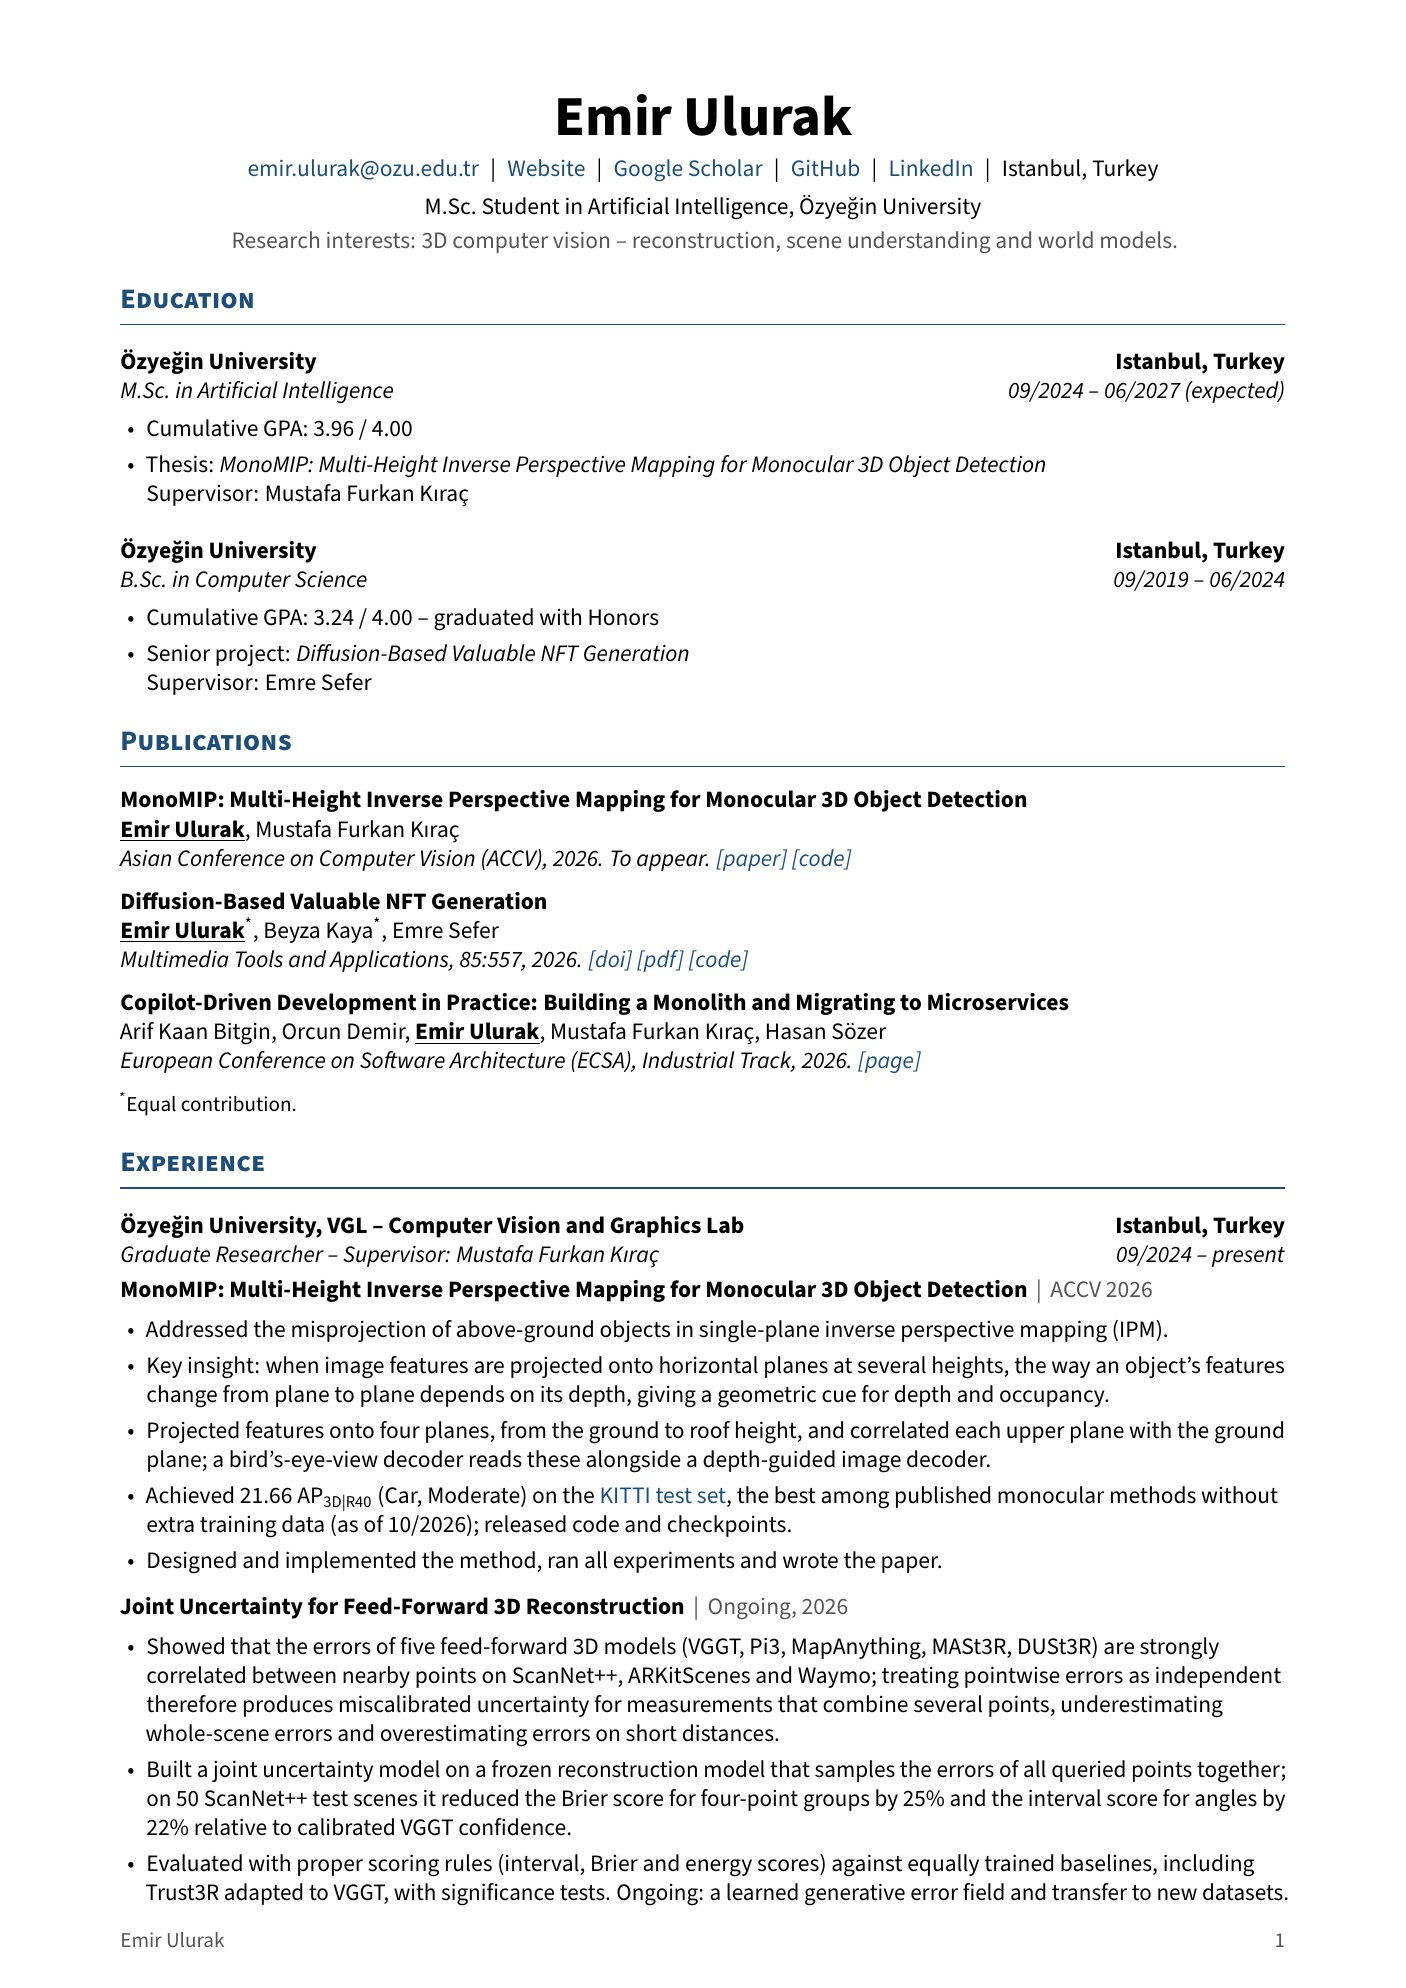
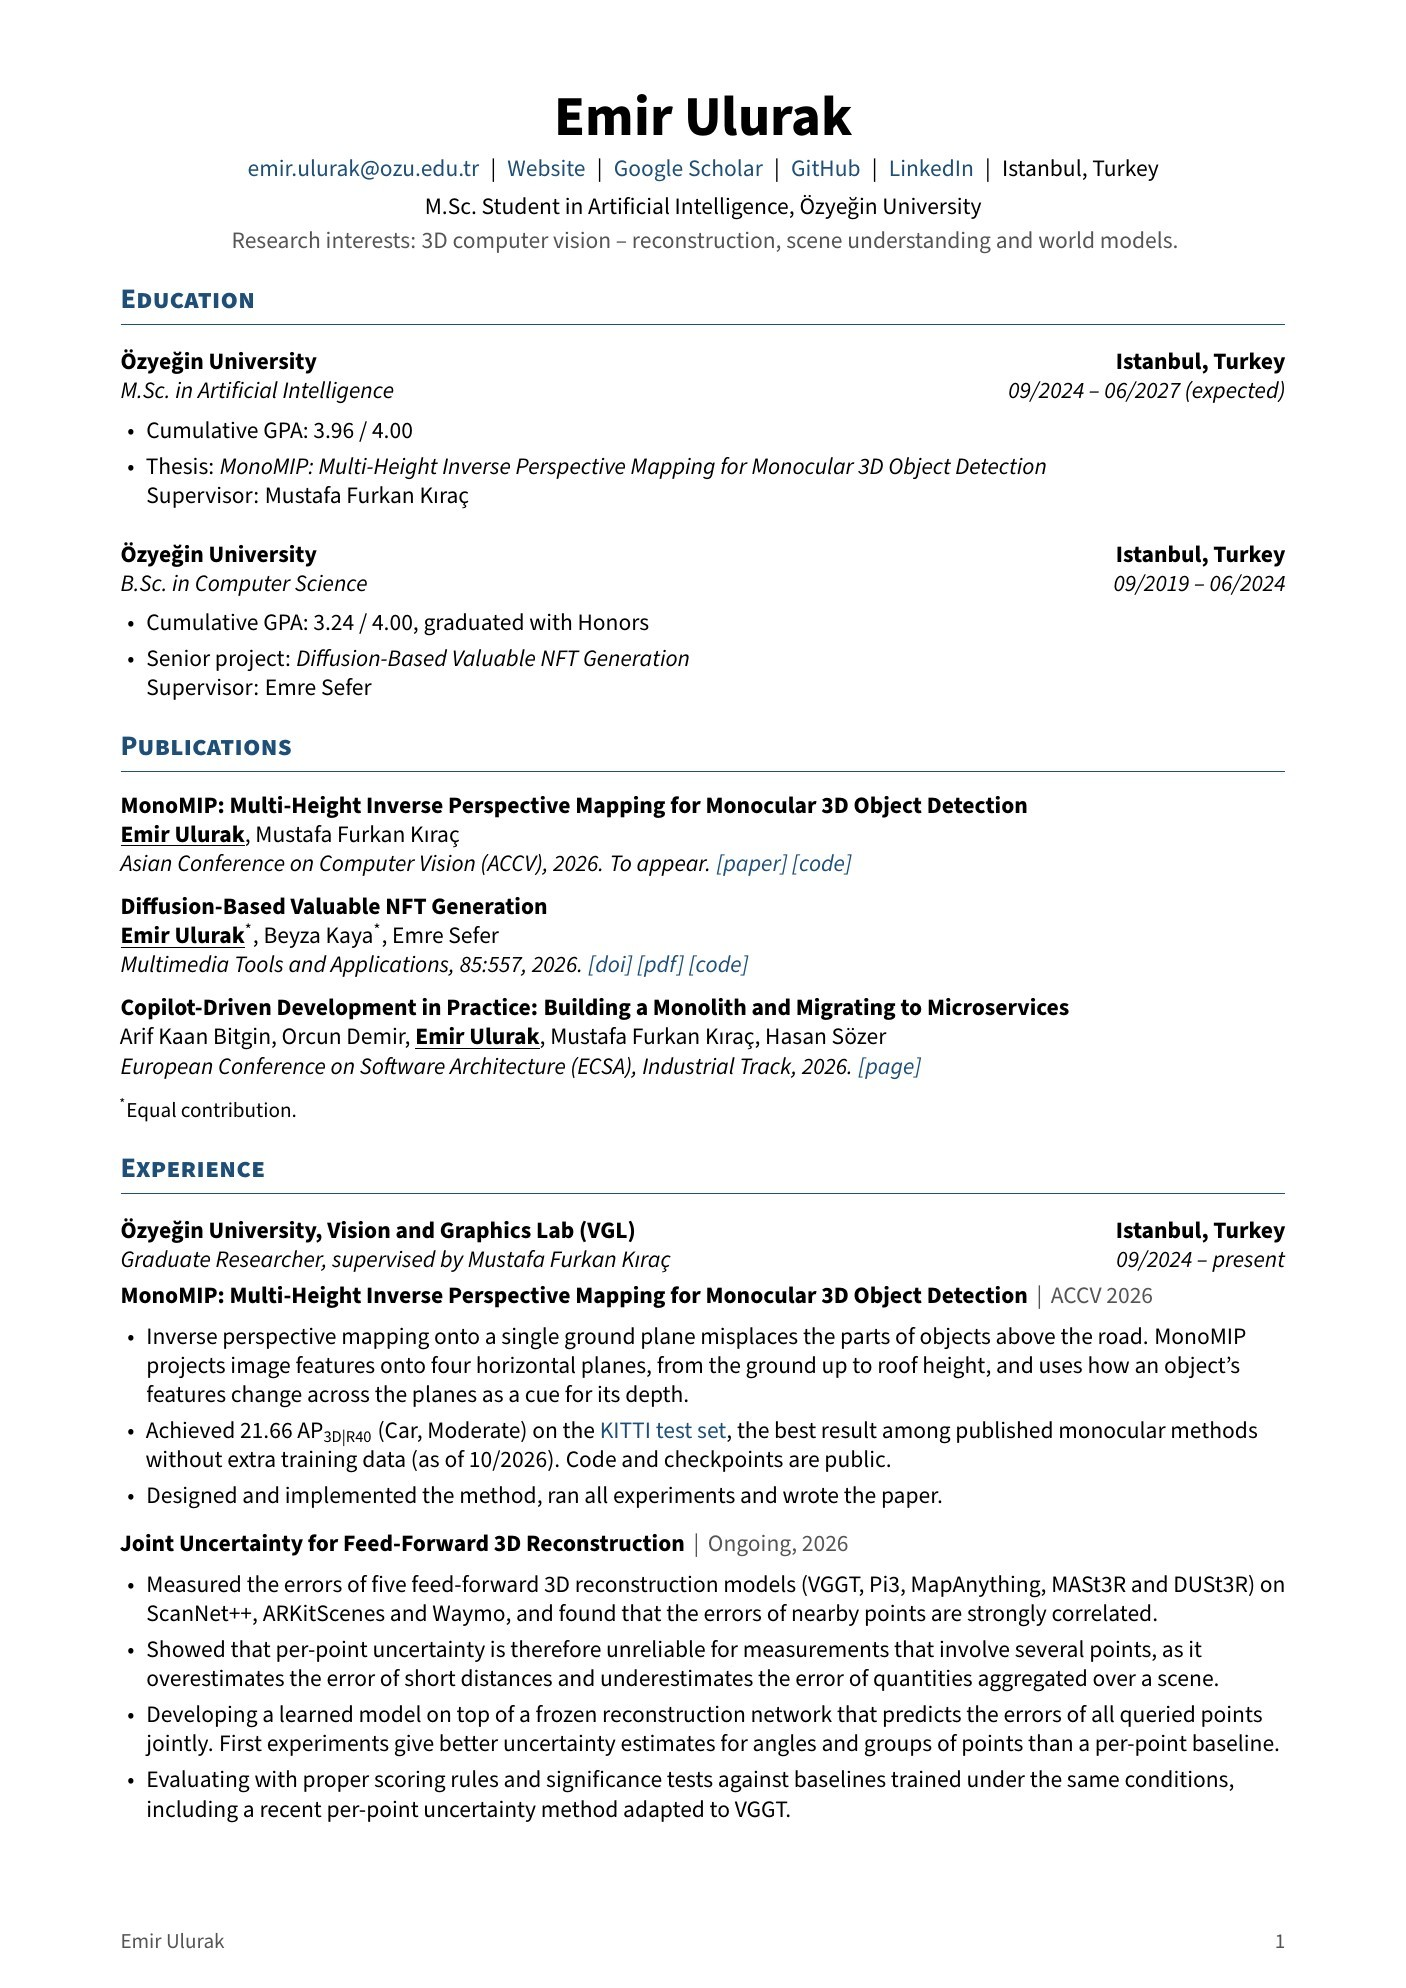
Update CV page images

diff --git a/cv/index.html b/cv/index.html
@@ -26,11 +26,11 @@
 <div class="cv">
 <header class="page-head cv-head">
 <h1 class="page-title">CV</h1>
-<p class="cv-dl"><a href="Emir_Ulurak_CV.pdf" download>Download PDF</a> <span>&middot; updated November 2026</span></p>
+<p class="cv-dl"><a href="Emir_Ulurak_CV.pdf?v=20261114" download="Emir_Ulurak_CV.pdf">Download PDF</a> <span>&middot; updated November 2026</span></p>
 </header>
 <figure class="cv-pages">
-<img src="cv-page-1.jpg" alt="Emir Ulurak CV, page 1 of 2" width="1406" height="1988" loading="eager">
-<img src="cv-page-2.jpg" alt="Emir Ulurak CV, page 2 of 2" width="1406" height="1988" loading="lazy">
+<img src="cv-page-1.jpg?v=20261114" alt="Emir Ulurak CV, page 1 of 2" width="1406" height="1988" loading="eager">
+<img src="cv-page-2.jpg?v=20261114" alt="Emir Ulurak CV, page 2 of 2" width="1406" height="1988" loading="lazy">
 </figure>
 </div>
 </main>
